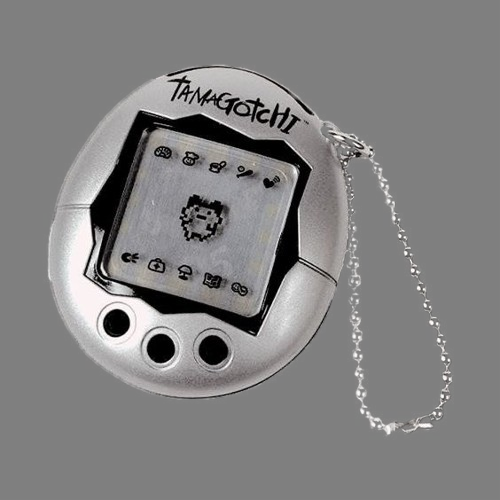
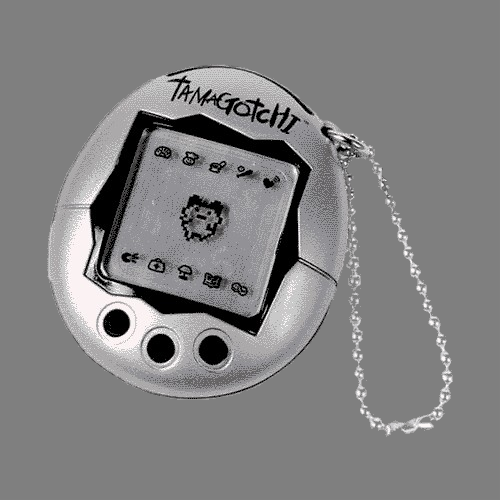
peak

diff --git a/characters/empy3.css b/characters/empy3.css
@@ -59,7 +59,6 @@ border: #fff 2px solid;
 	}
 
 #smiley{
-
 animation-name: spin;
   animation-duration: 2s;
   animation-iteration-count: infinite;
@@ -81,6 +80,32 @@ border-radius:50%;
     -moz-border-radius:50%;
     -webkit-border-radius:50%;
 }   
+
+@keyframes wag {
+	0%   {transform: rotate(6deg);}
+	50%  {transform: rotate(-6deg);}
+	100% {transform: rotate(6deg);}
+	}
+
+#tama{
+animation-name: wag;
+  animation-duration: 1.8s;
+  animation-iteration-count: infinite;
+  animation-timing-function: ease-in-out;
+float: left;
+display: block;
+align-items: left;
+align-self: left;
+justify-content: left;
+margin-top: 250px;
+margin-left: 150px;
+position:absolute;
+image-rendering: pixelated;
+vertical-align: bottom;
+width: 150px;
+height: 150px;
+}   
+
 
 .empytext1{
 font-family: "dd";

diff --git a/characters/empy3.html b/characters/empy3.html
@@ -77,7 +77,7 @@ for (i = 0; i < toggler.length; i++) {
 <span class="empytext1">EMPY</span><span class="empytext2">3</span>
 </div>	
 <img id="ddr-arrowz" src="\data\images\random\ddr-arrowz(1).png">
-
+<img id="tama" src="\data\images\random\tamagotchi.png">
 <img id="modular" src="\data\images\random\modular.png">
 <img id="smiley" src="\data\images\random\smile.png">
 </div>
